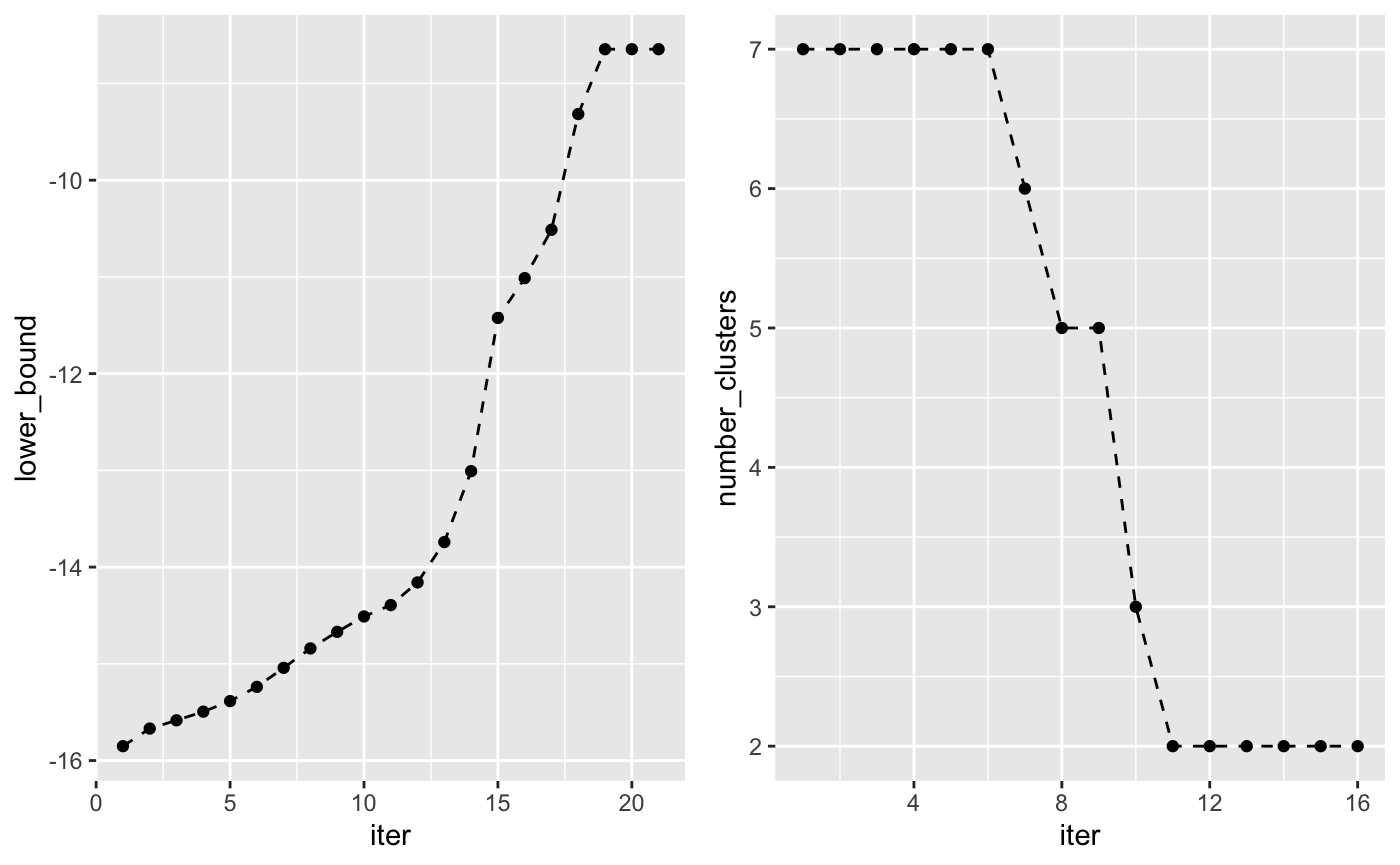
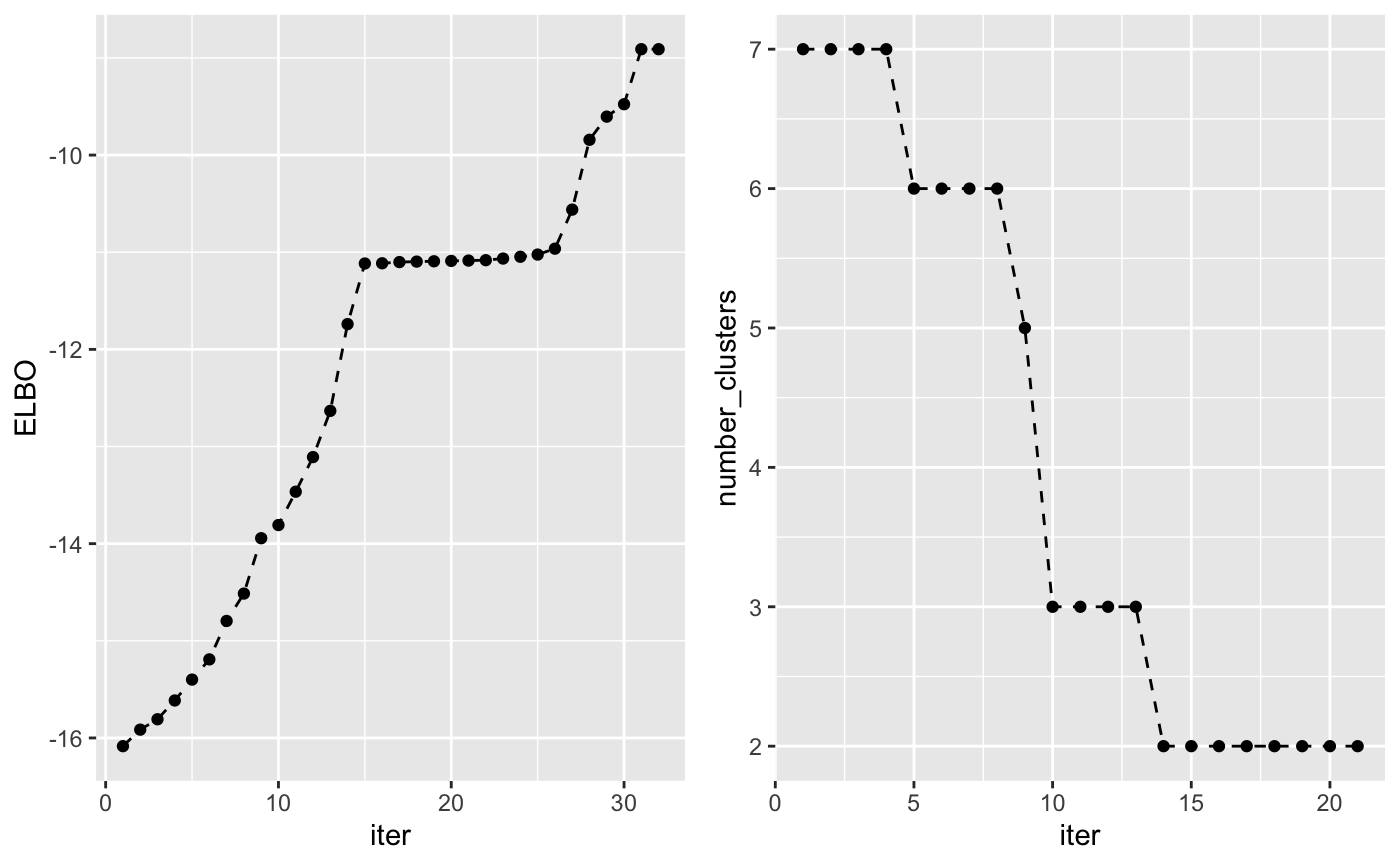
add plot of ELBO with multiple runs

diff --git a/docs/articles/vimix.html b/docs/articles/vimix.html
@@ -36,7 +36,7 @@
       </button>
       <span class="navbar-brand">
         <a class="navbar-link" href="../index.html">vimix</a>
-        <span class="version label label-default" data-toggle="tooltip" data-placement="bottom" title="Released version">0.0.0.9001</span>
+        <span class="version label label-default" data-toggle="tooltip" data-placement="bottom" title="Released version">0.0.0.9002</span>
       </span>
     </div>
 
@@ -79,7 +79,7 @@
       <h1>1. Introduction to vimix</h1>
                         <h4 class="author">Alessandra Cabassi</h4>
             
-            <h4 class="date">2019-03-14</h4>
+            <h4 class="date">2019-03-15</h4>
       
       
       <div class="hidden name"><code>vimix.Rmd</code></div>
@@ -111,45 +111,79 @@
 <div class="sourceCode" id="cb3"><pre class="sourceCode r"><code class="sourceCode r"><a class="sourceLine" id="cb3-1" data-line-number="1"><span class="co">## Check that the lower bound is monotonically increasing</span></a>
 <a class="sourceLine" id="cb3-2" data-line-number="2"></a>
 <a class="sourceLine" id="cb3-3" data-line-number="3">lb &lt;-<span class="st"> </span><span class="kw"><a href="https://www.rdocumentation.org/packages/broom/topics/tidy">tidy</a></span>(output<span class="op">$</span>L[<span class="op">-</span><span class="dv">1</span>])</a>
-<a class="sourceLine" id="cb3-4" data-line-number="4">lb<span class="op">$</span>lower_bound &lt;-<span class="st"> </span>lb<span class="op">$</span>x</a>
+<a class="sourceLine" id="cb3-4" data-line-number="4">lb<span class="op">$</span>ELBO &lt;-<span class="st"> </span>lb<span class="op">$</span>x</a>
 <a class="sourceLine" id="cb3-5" data-line-number="5">lb<span class="op">$</span>x &lt;-<span class="st"> </span><span class="ot">NULL</span></a>
 <a class="sourceLine" id="cb3-6" data-line-number="6">lb<span class="op">$</span>iter &lt;-<span class="st"> </span><span class="kw"><a href="https://www.rdocumentation.org/packages/base/topics/c">c</a></span>(<span class="dv">1</span><span class="op">:</span><span class="kw"><a href="https://www.rdocumentation.org/packages/base/topics/length">length</a></span>(output<span class="op">$</span>L[<span class="op">-</span><span class="dv">1</span>]))</a>
 <a class="sourceLine" id="cb3-7" data-line-number="7">lb<span class="op">$</span>number_clusters &lt;-<span class="st"> </span>output<span class="op">$</span>Cl[<span class="op">-</span><span class="dv">1</span>]</a>
 <a class="sourceLine" id="cb3-8" data-line-number="8"></a>
 <a class="sourceLine" id="cb3-9" data-line-number="9"><span class="co">## Plot lower bound</span></a>
-<a class="sourceLine" id="cb3-10" data-line-number="10">plot_lb &lt;-<span class="st"> </span><span class="kw"><a href="https://ggplot2.tidyverse.org/reference/ggplot.html">ggplot</a></span>(lb, <span class="kw"><a href="https://ggplot2.tidyverse.org/reference/aes.html">aes</a></span>(<span class="dt">x=</span>iter,<span class="dt">y=</span>lower_bound)) <span class="op">+</span><span class="st"> </span><span class="kw"><a href="https://ggplot2.tidyverse.org/reference/geom_path.html">geom_line</a></span>(<span class="dt">linetype =</span> <span class="st">"dashed"</span>) <span class="op">+</span><span class="st"> </span><span class="kw"><a href="https://ggplot2.tidyverse.org/reference/geom_point.html">geom_point</a></span>()</a>
+<a class="sourceLine" id="cb3-10" data-line-number="10">plot_lb &lt;-<span class="st"> </span><span class="kw"><a href="https://ggplot2.tidyverse.org/reference/ggplot.html">ggplot</a></span>(lb, <span class="kw"><a href="https://ggplot2.tidyverse.org/reference/aes.html">aes</a></span>(<span class="dt">x=</span>iter,<span class="dt">y=</span>ELBO)) <span class="op">+</span><span class="st"> </span><span class="kw"><a href="https://ggplot2.tidyverse.org/reference/geom_path.html">geom_line</a></span>(<span class="dt">linetype =</span> <span class="st">"dashed"</span>) <span class="op">+</span><span class="st"> </span><span class="kw"><a href="https://ggplot2.tidyverse.org/reference/geom_point.html">geom_point</a></span>()</a>
 <a class="sourceLine" id="cb3-11" data-line-number="11"></a>
 <a class="sourceLine" id="cb3-12" data-line-number="12"><span class="co">## Plot number of non-empty clusters</span></a>
 <a class="sourceLine" id="cb3-13" data-line-number="13">plot_nc &lt;-<span class="st"> </span><span class="kw"><a href="https://ggplot2.tidyverse.org/reference/ggplot.html">ggplot</a></span>(lb, <span class="kw"><a href="https://ggplot2.tidyverse.org/reference/aes.html">aes</a></span>(<span class="dt">x=</span>iter,<span class="dt">y=</span>number_clusters)) <span class="op">+</span><span class="st"> </span><span class="kw"><a href="https://ggplot2.tidyverse.org/reference/geom_path.html">geom_line</a></span>(<span class="dt">linetype =</span> <span class="st">"dashed"</span>) <span class="op">+</span><span class="st"> </span><span class="kw"><a href="https://ggplot2.tidyverse.org/reference/geom_point.html">geom_point</a></span>()</a>
 <a class="sourceLine" id="cb3-14" data-line-number="14"></a>
 <a class="sourceLine" id="cb3-15" data-line-number="15"><span class="kw"><a href="https://www.rdocumentation.org/packages/gridExtra/topics/arrangeGrob">grid.arrange</a></span>(plot_lb, plot_nc, <span class="dt">ncol =</span> <span class="dv">2</span>)</a></code></pre></div>
 <p><img src="vimix_files/figure-html/example1-lb-1.png" width="700"></p>
-<div class="sourceCode" id="cb4"><pre class="sourceCode r"><code class="sourceCode r"><a class="sourceLine" id="cb4-1" data-line-number="1"></a>
-<a class="sourceLine" id="cb4-2" data-line-number="2"><span class="co">## Use variational inference for mixture of Gaussians to find clusters</span></a>
-<a class="sourceLine" id="cb4-3" data-line-number="3">output &lt;-<span class="st"> </span><span class="kw"><a href="../reference/vimix.html">vimix</a></span>(data, <span class="dt">K =</span> <span class="dv">7</span>, <span class="dt">indep =</span> T, <span class="dt">verbose =</span> T)</a></code></pre></div>
-<div class="sourceCode" id="cb5"><pre class="sourceCode r"><code class="sourceCode r"><a class="sourceLine" id="cb5-1" data-line-number="1"><span class="co">## Convert data matrix and cluster labels to data.frame</span></a>
-<a class="sourceLine" id="cb5-2" data-line-number="2">df &lt;-<span class="st"> </span><span class="kw"><a href="https://www.rdocumentation.org/packages/broom/topics/tidy">tidy</a></span>(data)</a>
-<a class="sourceLine" id="cb5-3" data-line-number="3">df<span class="op">$</span>label &lt;-<span class="st"> </span><span class="kw"><a href="https://www.rdocumentation.org/packages/base/topics/factor">as.factor</a></span>(output<span class="op">$</span>label)</a>
-<a class="sourceLine" id="cb5-4" data-line-number="4"></a>
-<a class="sourceLine" id="cb5-5" data-line-number="5"><span class="co">## Plot clusters</span></a>
-<a class="sourceLine" id="cb5-6" data-line-number="6"><span class="kw"><a href="https://ggplot2.tidyverse.org/reference/ggplot.html">ggplot</a></span>(df, <span class="kw"><a href="https://ggplot2.tidyverse.org/reference/aes.html">aes</a></span>(X1, X2, <span class="dt">col =</span> label)) <span class="op">+</span><span class="st"> </span><span class="kw"><a href="https://ggplot2.tidyverse.org/reference/geom_point.html">geom_point</a></span>()</a></code></pre></div>
+<div class="sourceCode" id="cb4"><pre class="sourceCode r"><code class="sourceCode r"><a class="sourceLine" id="cb4-1" data-line-number="1">maxK &lt;-<span class="st"> </span><span class="dv">10</span></a>
+<a class="sourceLine" id="cb4-2" data-line-number="2">n_random_starts &lt;-<span class="st"> </span><span class="dv">100</span></a>
+<a class="sourceLine" id="cb4-3" data-line-number="3">ELBO &lt;-<span class="st"> </span><span class="kw"><a href="https://www.rdocumentation.org/packages/base/topics/matrix">matrix</a></span>(<span class="dv">0</span>, maxK<span class="dv">-1</span>, n_random_starts)</a>
+<a class="sourceLine" id="cb4-4" data-line-number="4"><span class="cf">for</span>(k <span class="cf">in</span> <span class="dv">2</span><span class="op">:</span>maxK){</a>
+<a class="sourceLine" id="cb4-5" data-line-number="5">    <span class="cf">for</span>(j <span class="cf">in</span> <span class="dv">1</span><span class="op">:</span>n_random_starts){</a>
+<a class="sourceLine" id="cb4-6" data-line-number="6">        output &lt;-<span class="st"> </span><span class="kw"><a href="../reference/vimix.html">vimix</a></span>(data, <span class="dt">K =</span> k)</a>
+<a class="sourceLine" id="cb4-7" data-line-number="7">        ELBO[k<span class="dv">-1</span>,j] &lt;-<span class="st"> </span>output<span class="op">$</span>L[<span class="kw"><a href="https://www.rdocumentation.org/packages/base/topics/length">length</a></span>(output<span class="op">$</span>L)]</a>
+<a class="sourceLine" id="cb4-8" data-line-number="8">    }</a>
+<a class="sourceLine" id="cb4-9" data-line-number="9">}</a>
+<a class="sourceLine" id="cb4-10" data-line-number="10"></a>
+<a class="sourceLine" id="cb4-11" data-line-number="11"><span class="kw"><a href="https://www.rdocumentation.org/packages/base/topics/library">library</a></span>(reshape)</a>
+<a class="sourceLine" id="cb4-12" data-line-number="12">ELBO &lt;-<span class="st"> </span><span class="kw"><a href="https://www.rdocumentation.org/packages/reshape/topics/melt-24">melt</a></span>(<span class="kw"><a href="https://www.rdocumentation.org/packages/base/topics/t">t</a></span>(ELBO))</a>
+<a class="sourceLine" id="cb4-13" data-line-number="13"><span class="kw"><a href="https://www.rdocumentation.org/packages/base/topics/names">names</a></span>(ELBO) &lt;-<span class="st"> </span><span class="kw"><a href="https://www.rdocumentation.org/packages/base/topics/c">c</a></span>(<span class="st">'start_n'</span>, <span class="st">'K'</span>, <span class="st">'ELBO'</span>)</a>
+<a class="sourceLine" id="cb4-14" data-line-number="14">ELBO<span class="op">$</span>K &lt;-<span class="st"> </span>ELBO<span class="op">$</span>K <span class="op">+</span><span class="st"> </span><span class="dv">1</span></a>
+<a class="sourceLine" id="cb4-15" data-line-number="15"></a>
+<a class="sourceLine" id="cb4-16" data-line-number="16"><span class="kw"><a href="https://ggplot2.tidyverse.org/reference/ggplot.html">ggplot</a></span>(ELBO, <span class="kw"><a href="https://ggplot2.tidyverse.org/reference/aes.html">aes</a></span>(<span class="dt">x =</span> K, <span class="dt">y =</span> ELBO)) <span class="op">+</span><span class="st"> </span><span class="kw"><a href="https://ggplot2.tidyverse.org/reference/geom_point.html">geom_point</a></span>() <span class="op">+</span><span class="st"> </span><span class="kw"><a href="https://ggplot2.tidyverse.org/reference/geom_jitter.html">geom_jitter</a></span>()</a></code></pre></div>
+<p><img src="vimix_files/figure-html/example1-figure10-7-1.png" width="700"></p>
+<div class="sourceCode" id="cb5"><pre class="sourceCode r"><code class="sourceCode r"><a class="sourceLine" id="cb5-1" data-line-number="1"></a>
+<a class="sourceLine" id="cb5-2" data-line-number="2"><span class="co">## Use variational inference for mixture of Gaussians to find clusters</span></a>
+<a class="sourceLine" id="cb5-3" data-line-number="3">output &lt;-<span class="st"> </span><span class="kw"><a href="../reference/vimix.html">vimix</a></span>(data, <span class="dt">K =</span> <span class="dv">7</span>, <span class="dt">indep =</span> T, <span class="dt">verbose =</span> T)</a></code></pre></div>
+<div class="sourceCode" id="cb6"><pre class="sourceCode r"><code class="sourceCode r"><a class="sourceLine" id="cb6-1" data-line-number="1"><span class="co">## Convert data matrix and cluster labels to data.frame</span></a>
+<a class="sourceLine" id="cb6-2" data-line-number="2">df &lt;-<span class="st"> </span><span class="kw"><a href="https://www.rdocumentation.org/packages/broom/topics/tidy">tidy</a></span>(data)</a>
+<a class="sourceLine" id="cb6-3" data-line-number="3">df<span class="op">$</span>label &lt;-<span class="st"> </span><span class="kw"><a href="https://www.rdocumentation.org/packages/base/topics/factor">as.factor</a></span>(output<span class="op">$</span>label)</a>
+<a class="sourceLine" id="cb6-4" data-line-number="4"></a>
+<a class="sourceLine" id="cb6-5" data-line-number="5"><span class="co">## Plot clusters</span></a>
+<a class="sourceLine" id="cb6-6" data-line-number="6"><span class="kw"><a href="https://ggplot2.tidyverse.org/reference/ggplot.html">ggplot</a></span>(df, <span class="kw"><a href="https://ggplot2.tidyverse.org/reference/aes.html">aes</a></span>(X1, X2, <span class="dt">col =</span> label)) <span class="op">+</span><span class="st"> </span><span class="kw"><a href="https://ggplot2.tidyverse.org/reference/geom_point.html">geom_point</a></span>()</a></code></pre></div>
 <p><img src="vimix_files/figure-html/example1-ind-plot-1.png" width="700"></p>
-<div class="sourceCode" id="cb6"><pre class="sourceCode r"><code class="sourceCode r"><a class="sourceLine" id="cb6-1" data-line-number="1"><span class="co">## Check that the lower bound is monotonically increasing</span></a>
-<a class="sourceLine" id="cb6-2" data-line-number="2"></a>
-<a class="sourceLine" id="cb6-3" data-line-number="3">lb &lt;-<span class="st"> </span><span class="kw"><a href="https://www.rdocumentation.org/packages/broom/topics/tidy">tidy</a></span>(output<span class="op">$</span>L[<span class="op">-</span><span class="dv">1</span>])</a>
-<a class="sourceLine" id="cb6-4" data-line-number="4">lb<span class="op">$</span>lower_bound &lt;-<span class="st"> </span>lb<span class="op">$</span>x</a>
-<a class="sourceLine" id="cb6-5" data-line-number="5">lb<span class="op">$</span>x &lt;-<span class="st"> </span><span class="ot">NULL</span></a>
-<a class="sourceLine" id="cb6-6" data-line-number="6">lb<span class="op">$</span>iter &lt;-<span class="st"> </span><span class="kw"><a href="https://www.rdocumentation.org/packages/base/topics/c">c</a></span>(<span class="dv">1</span><span class="op">:</span><span class="kw"><a href="https://www.rdocumentation.org/packages/base/topics/length">length</a></span>(output<span class="op">$</span>L[<span class="op">-</span><span class="dv">1</span>]))</a>
-<a class="sourceLine" id="cb6-7" data-line-number="7">lb<span class="op">$</span>number_clusters &lt;-<span class="st"> </span>output<span class="op">$</span>Cl[<span class="op">-</span><span class="dv">1</span>]</a>
-<a class="sourceLine" id="cb6-8" data-line-number="8"></a>
-<a class="sourceLine" id="cb6-9" data-line-number="9"><span class="co">## Plot clusters</span></a>
-<a class="sourceLine" id="cb6-10" data-line-number="10">plot_lc &lt;-<span class="st"> </span><span class="kw"><a href="https://ggplot2.tidyverse.org/reference/ggplot.html">ggplot</a></span>(lb, <span class="kw"><a href="https://ggplot2.tidyverse.org/reference/aes.html">aes</a></span>(<span class="dt">x=</span>iter,<span class="dt">y=</span>lower_bound)) <span class="op">+</span><span class="st"> </span><span class="kw"><a href="https://ggplot2.tidyverse.org/reference/geom_path.html">geom_line</a></span>(<span class="dt">linetype =</span> <span class="st">"dashed"</span>) <span class="op">+</span><span class="st"> </span><span class="kw"><a href="https://ggplot2.tidyverse.org/reference/geom_point.html">geom_point</a></span>()</a>
-<a class="sourceLine" id="cb6-11" data-line-number="11"></a>
-<a class="sourceLine" id="cb6-12" data-line-number="12"><span class="co">## Plot number of non-empty clusters</span></a>
-<a class="sourceLine" id="cb6-13" data-line-number="13">plot_nc &lt;-<span class="st"> </span><span class="kw"><a href="https://ggplot2.tidyverse.org/reference/ggplot.html">ggplot</a></span>(lb, <span class="kw"><a href="https://ggplot2.tidyverse.org/reference/aes.html">aes</a></span>(<span class="dt">x=</span>iter,<span class="dt">y=</span>number_clusters)) <span class="op">+</span><span class="st"> </span><span class="kw"><a href="https://ggplot2.tidyverse.org/reference/geom_path.html">geom_line</a></span>(<span class="dt">linetype =</span> <span class="st">"dashed"</span>) <span class="op">+</span><span class="st"> </span><span class="kw"><a href="https://ggplot2.tidyverse.org/reference/geom_point.html">geom_point</a></span>()</a>
-<a class="sourceLine" id="cb6-14" data-line-number="14"></a>
-<a class="sourceLine" id="cb6-15" data-line-number="15"><span class="kw"><a href="https://www.rdocumentation.org/packages/gridExtra/topics/arrangeGrob">grid.arrange</a></span>(plot_lb, plot_nc, <span class="dt">ncol =</span> <span class="dv">2</span>)</a></code></pre></div>
+<div class="sourceCode" id="cb7"><pre class="sourceCode r"><code class="sourceCode r"><a class="sourceLine" id="cb7-1" data-line-number="1"><span class="co">## Check that the lower bound is monotonically increasing</span></a>
+<a class="sourceLine" id="cb7-2" data-line-number="2"></a>
+<a class="sourceLine" id="cb7-3" data-line-number="3">lb &lt;-<span class="st"> </span><span class="kw"><a href="https://www.rdocumentation.org/packages/broom/topics/tidy">tidy</a></span>(output<span class="op">$</span>L[<span class="op">-</span><span class="dv">1</span>])</a>
+<a class="sourceLine" id="cb7-4" data-line-number="4">lb<span class="op">$</span>ELBO &lt;-<span class="st"> </span>lb<span class="op">$</span>x</a>
+<a class="sourceLine" id="cb7-5" data-line-number="5">lb<span class="op">$</span>x &lt;-<span class="st"> </span><span class="ot">NULL</span></a>
+<a class="sourceLine" id="cb7-6" data-line-number="6">lb<span class="op">$</span>iter &lt;-<span class="st"> </span><span class="kw"><a href="https://www.rdocumentation.org/packages/base/topics/c">c</a></span>(<span class="dv">1</span><span class="op">:</span><span class="kw"><a href="https://www.rdocumentation.org/packages/base/topics/length">length</a></span>(output<span class="op">$</span>L[<span class="op">-</span><span class="dv">1</span>]))</a>
+<a class="sourceLine" id="cb7-7" data-line-number="7">lb<span class="op">$</span>number_clusters &lt;-<span class="st"> </span>output<span class="op">$</span>Cl[<span class="op">-</span><span class="dv">1</span>]</a>
+<a class="sourceLine" id="cb7-8" data-line-number="8"></a>
+<a class="sourceLine" id="cb7-9" data-line-number="9"><span class="co">## Plot clusters</span></a>
+<a class="sourceLine" id="cb7-10" data-line-number="10">plot_lc &lt;-<span class="st"> </span><span class="kw"><a href="https://ggplot2.tidyverse.org/reference/ggplot.html">ggplot</a></span>(lb, <span class="kw"><a href="https://ggplot2.tidyverse.org/reference/aes.html">aes</a></span>(<span class="dt">x=</span>iter,<span class="dt">y=</span>ELBO)) <span class="op">+</span><span class="st"> </span><span class="kw"><a href="https://ggplot2.tidyverse.org/reference/geom_path.html">geom_line</a></span>(<span class="dt">linetype =</span> <span class="st">"dashed"</span>) <span class="op">+</span><span class="st"> </span><span class="kw"><a href="https://ggplot2.tidyverse.org/reference/geom_point.html">geom_point</a></span>()</a>
+<a class="sourceLine" id="cb7-11" data-line-number="11"></a>
+<a class="sourceLine" id="cb7-12" data-line-number="12"><span class="co">## Plot number of non-empty clusters</span></a>
+<a class="sourceLine" id="cb7-13" data-line-number="13">plot_nc &lt;-<span class="st"> </span><span class="kw"><a href="https://ggplot2.tidyverse.org/reference/ggplot.html">ggplot</a></span>(lb, <span class="kw"><a href="https://ggplot2.tidyverse.org/reference/aes.html">aes</a></span>(<span class="dt">x=</span>iter,<span class="dt">y=</span>number_clusters)) <span class="op">+</span><span class="st"> </span><span class="kw"><a href="https://ggplot2.tidyverse.org/reference/geom_path.html">geom_line</a></span>(<span class="dt">linetype =</span> <span class="st">"dashed"</span>) <span class="op">+</span><span class="st"> </span><span class="kw"><a href="https://ggplot2.tidyverse.org/reference/geom_point.html">geom_point</a></span>()</a>
+<a class="sourceLine" id="cb7-14" data-line-number="14"></a>
+<a class="sourceLine" id="cb7-15" data-line-number="15"><span class="kw"><a href="https://www.rdocumentation.org/packages/gridExtra/topics/arrangeGrob">grid.arrange</a></span>(plot_lb, plot_nc, <span class="dt">ncol =</span> <span class="dv">2</span>)</a></code></pre></div>
 <p><img src="vimix_files/figure-html/example1-ind-lb-1.png" width="700"></p>
+<div class="sourceCode" id="cb8"><pre class="sourceCode r"><code class="sourceCode r"><a class="sourceLine" id="cb8-1" data-line-number="1">maxK &lt;-<span class="st"> </span><span class="dv">10</span></a>
+<a class="sourceLine" id="cb8-2" data-line-number="2">n_random_starts &lt;-<span class="st"> </span><span class="dv">100</span></a>
+<a class="sourceLine" id="cb8-3" data-line-number="3">ELBO &lt;-<span class="st"> </span><span class="kw"><a href="https://www.rdocumentation.org/packages/base/topics/matrix">matrix</a></span>(<span class="dv">0</span>, maxK<span class="dv">-1</span>, n_random_starts)</a>
+<a class="sourceLine" id="cb8-4" data-line-number="4"><span class="cf">for</span>(k <span class="cf">in</span> <span class="dv">2</span><span class="op">:</span>maxK){</a>
+<a class="sourceLine" id="cb8-5" data-line-number="5">    <span class="cf">for</span>(j <span class="cf">in</span> <span class="dv">1</span><span class="op">:</span>n_random_starts){</a>
+<a class="sourceLine" id="cb8-6" data-line-number="6">        output &lt;-<span class="st"> </span><span class="kw"><a href="../reference/vimix.html">vimix</a></span>(data, <span class="dt">K =</span> k, <span class="dt">indep =</span> T)</a>
+<a class="sourceLine" id="cb8-7" data-line-number="7">        ELBO[k<span class="dv">-1</span>,j] &lt;-<span class="st"> </span>output<span class="op">$</span>L[<span class="kw"><a href="https://www.rdocumentation.org/packages/base/topics/length">length</a></span>(output<span class="op">$</span>L)]</a>
+<a class="sourceLine" id="cb8-8" data-line-number="8">    }</a>
+<a class="sourceLine" id="cb8-9" data-line-number="9">}</a>
+<a class="sourceLine" id="cb8-10" data-line-number="10"></a>
+<a class="sourceLine" id="cb8-11" data-line-number="11"><span class="kw"><a href="https://www.rdocumentation.org/packages/base/topics/library">library</a></span>(reshape)</a>
+<a class="sourceLine" id="cb8-12" data-line-number="12">ELBO &lt;-<span class="st"> </span><span class="kw"><a href="https://www.rdocumentation.org/packages/reshape/topics/melt-24">melt</a></span>(<span class="kw"><a href="https://www.rdocumentation.org/packages/base/topics/t">t</a></span>(ELBO))</a>
+<a class="sourceLine" id="cb8-13" data-line-number="13"><span class="kw"><a href="https://www.rdocumentation.org/packages/base/topics/names">names</a></span>(ELBO) &lt;-<span class="st"> </span><span class="kw"><a href="https://www.rdocumentation.org/packages/base/topics/c">c</a></span>(<span class="st">'start_n'</span>, <span class="st">'K'</span>, <span class="st">'ELBO'</span>)</a>
+<a class="sourceLine" id="cb8-14" data-line-number="14">ELBO<span class="op">$</span>K &lt;-<span class="st"> </span>ELBO<span class="op">$</span>K <span class="op">+</span><span class="st"> </span><span class="dv">1</span></a>
+<a class="sourceLine" id="cb8-15" data-line-number="15"></a>
+<a class="sourceLine" id="cb8-16" data-line-number="16"><span class="kw"><a href="https://ggplot2.tidyverse.org/reference/ggplot.html">ggplot</a></span>(ELBO, <span class="kw"><a href="https://ggplot2.tidyverse.org/reference/aes.html">aes</a></span>(<span class="dt">x =</span> K, <span class="dt">y =</span> ELBO)) <span class="op">+</span><span class="st"> </span><span class="kw"><a href="https://ggplot2.tidyverse.org/reference/geom_point.html">geom_point</a></span>() <span class="op">+</span><span class="st"> </span><span class="kw"><a href="https://ggplot2.tidyverse.org/reference/geom_jitter.html">geom_jitter</a></span>()</a></code></pre></div>
+<p><img src="vimix_files/figure-html/example1-ind-figure10-7-1.png" width="700"></p>
   </div>
 
   <div class="col-md-3 hidden-xs hidden-sm" id="sidebar">

diff --git a/docs/articles/univariate-mixtures.html b/docs/articles/univariate-mixtures.html
@@ -36,7 +36,7 @@
       </button>
       <span class="navbar-brand">
         <a class="navbar-link" href="../index.html">vimix</a>
-        <span class="version label label-default" data-toggle="tooltip" data-placement="bottom" title="Released version">0.0.0.9001</span>
+        <span class="version label label-default" data-toggle="tooltip" data-placement="bottom" title="Released version">0.0.0.9002</span>
       </span>
     </div>
 
@@ -79,7 +79,7 @@
       <h1>2. Mixtures of univariate Gaussians</h1>
                         <h4 class="author">Alessandra Cabassi</h4>
             
-            <h4 class="date">2019-03-14</h4>
+            <h4 class="date">2019-03-15</h4>
       
       
       <div class="hidden name"><code>univariate-mixtures.Rmd</code></div>

diff --git a/docs/articles/index.html b/docs/articles/index.html
@@ -70,7 +70,7 @@
       </button>
       <span class="navbar-brand">
         <a class="navbar-link" href="../index.html">vimix</a>
-        <span class="version label label-default" data-toggle="tooltip" data-placement="bottom" title="Released version">0.0.0.9001</span>
+        <span class="version label label-default" data-toggle="tooltip" data-placement="bottom" title="Released version">0.0.0.9002</span>
       </span>
     </div>
 

diff --git a/docs/reference/boundGauss.html b/docs/reference/boundGauss.html
@@ -73,7 +73,7 @@
       </button>
       <span class="navbar-brand">
         <a class="navbar-link" href="../index.html">vimix</a>
-        <span class="version label label-default" data-toggle="tooltip" data-placement="bottom" title="Released version">0.0.0.9001</span>
+        <span class="version label label-default" data-toggle="tooltip" data-placement="bottom" title="Released version">0.0.0.9002</span>
       </span>
     </div>
 

diff --git a/docs/reference/boundIndGauss.html b/docs/reference/boundIndGauss.html
@@ -73,7 +73,7 @@
       </button>
       <span class="navbar-brand">
         <a class="navbar-link" href="../index.html">vimix</a>
-        <span class="version label label-default" data-toggle="tooltip" data-placement="bottom" title="Released version">0.0.0.9001</span>
+        <span class="version label label-default" data-toggle="tooltip" data-placement="bottom" title="Released version">0.0.0.9002</span>
       </span>
     </div>
 

diff --git a/docs/reference/boundUniGauss.html b/docs/reference/boundUniGauss.html
@@ -73,7 +73,7 @@
       </button>
       <span class="navbar-brand">
         <a class="navbar-link" href="../index.html">vimix</a>
-        <span class="version label label-default" data-toggle="tooltip" data-placement="bottom" title="Released version">0.0.0.9001</span>
+        <span class="version label label-default" data-toggle="tooltip" data-placement="bottom" title="Released version">0.0.0.9002</span>
       </span>
     </div>
 

diff --git a/docs/reference/check_convergence.html b/docs/reference/check_convergence.html
@@ -73,7 +73,7 @@
       </button>
       <span class="navbar-brand">
         <a class="navbar-link" href="../index.html">vimix</a>
-        <span class="version label label-default" data-toggle="tooltip" data-placement="bottom" title="Released version">0.0.0.9001</span>
+        <span class="version label label-default" data-toggle="tooltip" data-placement="bottom" title="Released version">0.0.0.9002</span>
       </span>
     </div>
 

diff --git a/docs/reference/expectGauss.html b/docs/reference/expectGauss.html
@@ -73,7 +73,7 @@
       </button>
       <span class="navbar-brand">
         <a class="navbar-link" href="../index.html">vimix</a>
-        <span class="version label label-default" data-toggle="tooltip" data-placement="bottom" title="Released version">0.0.0.9001</span>
+        <span class="version label label-default" data-toggle="tooltip" data-placement="bottom" title="Released version">0.0.0.9002</span>
       </span>
     </div>
 

diff --git a/docs/reference/expectIndGauss.html b/docs/reference/expectIndGauss.html
@@ -73,7 +73,7 @@
       </button>
       <span class="navbar-brand">
         <a class="navbar-link" href="../index.html">vimix</a>
-        <span class="version label label-default" data-toggle="tooltip" data-placement="bottom" title="Released version">0.0.0.9001</span>
+        <span class="version label label-default" data-toggle="tooltip" data-placement="bottom" title="Released version">0.0.0.9002</span>
       </span>
     </div>
 

diff --git a/docs/reference/expectUniGauss.html b/docs/reference/expectUniGauss.html
@@ -73,7 +73,7 @@
       </button>
       <span class="navbar-brand">
         <a class="navbar-link" href="../index.html">vimix</a>
-        <span class="version label label-default" data-toggle="tooltip" data-placement="bottom" title="Released version">0.0.0.9001</span>
+        <span class="version label label-default" data-toggle="tooltip" data-placement="bottom" title="Released version">0.0.0.9002</span>
       </span>
     </div>
 

diff --git a/docs/reference/index.html b/docs/reference/index.html
@@ -70,7 +70,7 @@
       </button>
       <span class="navbar-brand">
         <a class="navbar-link" href="../index.html">vimix</a>
-        <span class="version label label-default" data-toggle="tooltip" data-placement="bottom" title="Released version">0.0.0.9001</span>
+        <span class="version label label-default" data-toggle="tooltip" data-placement="bottom" title="Released version">0.0.0.9002</span>
       </span>
     </div>
 

diff --git a/docs/reference/init.html b/docs/reference/init.html
@@ -73,7 +73,7 @@
       </button>
       <span class="navbar-brand">
         <a class="navbar-link" href="../index.html">vimix</a>
-        <span class="version label label-default" data-toggle="tooltip" data-placement="bottom" title="Released version">0.0.0.9001</span>
+        <span class="version label label-default" data-toggle="tooltip" data-placement="bottom" title="Released version">0.0.0.9002</span>
       </span>
     </div>
 
